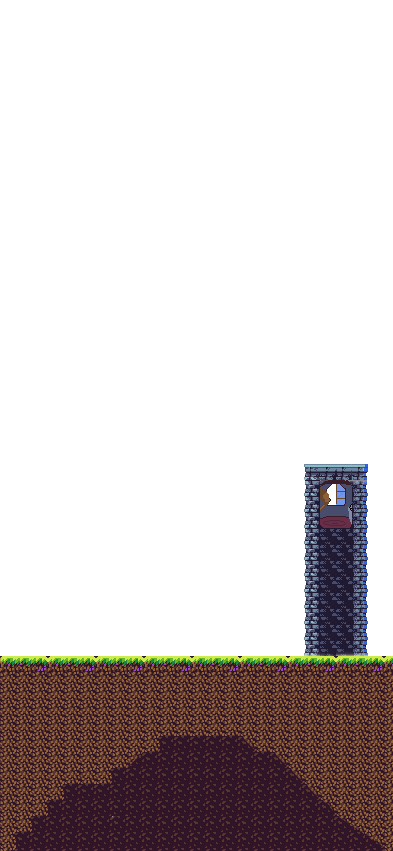
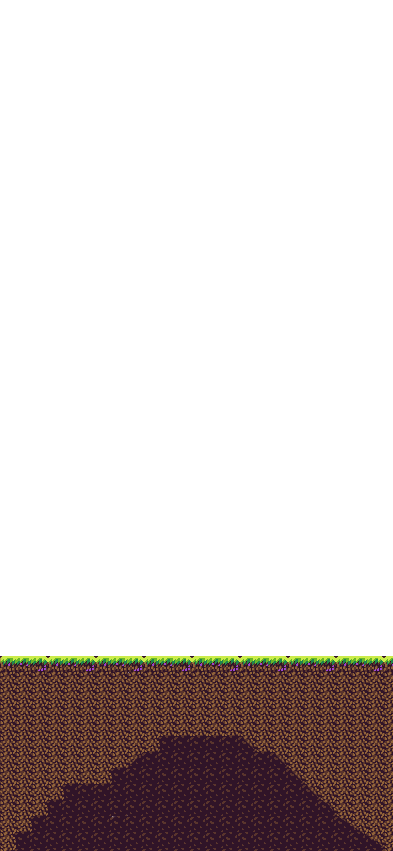
폭팔 크기와 슬라임 생성

Changed region(s): [[0.7634, 0.5194, 0.9466, 0.7944]]

diff --git a/src/bevygame/slime.rs b/src/bevygame/slime.rs
@@ -1,0 +1,105 @@
+use bevy::prelude::*;
+use rand::Rng;
+
+use super::setup_res::{Slime, Tower, ResourceImage, Stuff};
+
+fn slime_move(
+    mut commands: Commands,
+    mut query_slime: Query<(&mut Transform, &mut Slime, Entity)>,
+    mut query_tower: Query<&mut Tower>,
+    res_time: Res<Time>
+){
+    let delta = res_time.delta();
+    let mut tower = query_tower.get_single_mut().unwrap();
+    for (mut slime_trans, mut slime, entity) in query_slime.iter_mut(){
+        slime.move_time.tick(delta);
+        if slime.move_time.finished(){
+            let mut rng = rand::thread_rng();
+            slime_trans.translation += Vec3::X * rng.gen_range(slime.move_min..slime.move_max);
+
+            if slime_trans.translation.x > 100.{
+                println!("슬라임 충돌!");
+                tower.2 += 2;
+                commands.entity(entity).despawn();
+            }
+        }
+    }
+}
+
+fn slime_manger(
+    mut commands: Commands,
+    mut query_text: Query<&mut Text>,
+    res_image: Res<ResourceImage>,
+    mut level_time: Local<f32>,
+    mut level: Local<i32>,
+    res_time: Res<Time>
+){
+    let delta_sec = res_time.delta_seconds();
+    *level_time += delta_sec;
+
+    if *level_time > 2. {
+        *level_time = 0.;
+        *level += 1;
+        
+        let range = 1..(*level+1).max(3);
+        println!("이건 count 범위입니다. {:?}", range);
+        let mut rng = rand::thread_rng();
+        let count = rng.gen_range(range);
+
+        let mut text = query_text.get_single_mut().unwrap();
+        text.sections[0].value = format!("Score: {}", *level);
+
+        for _ in 0..count{
+            let mut slime = res_image.slime.clone();
+            let stuff_index = rng.gen_range(0..4);
+            let stuff = match stuff_index{
+                0 => {
+                    slime.0.sprite.color = Color::RED;
+                    Stuff::Fire
+                },
+                1 => {
+                    slime.0.sprite.color = Color::BLUE;
+                    Stuff::Water
+                },
+                2 => {
+                    slime.0.sprite.color = Color::YELLOW;
+                    Stuff::Light
+                },
+                3 => {
+                    slime.0.sprite.color = Color::GREEN;
+                    Stuff::Poison
+                },
+                _ => {Stuff::Fire}
+            };
+
+            let lv = (*level as f32).max(3.);
+            let min = (-5.)..(-2.5);
+            let max = (5.)..(10.);
+            let time = (0.7 / lv)..(1.5 / lv);
+            println!("이건 min 범위입니다. {:?}", min);
+            println!("이건 max 범위입니다. {:?}", max);
+            commands.spawn(
+                    slime
+            ).insert(
+                Slime{
+                    move_max: rng.gen_range(max),
+                    move_min: rng.gen_range(min),
+                    move_time: Timer::from_seconds(rng.gen_range(time), TimerMode::Repeating),
+                    property: stuff
+                }
+            );
+        }
+    }
+}
+
+pub struct SlimePlugin;
+
+impl Plugin for SlimePlugin {
+    fn build(&self, app: &mut App) {
+        app.
+        add_systems(Update, (
+            slime_move,
+            slime_manger,
+        ));
+    }
+}

diff --git a/src/bevygame/setup_res.rs b/src/bevygame/setup_res.rs
@@ -37,6 +37,9 @@ pub struct Slime {
 pub struct Witch;
 
 #[derive(Component)]
+pub struct Tower(pub i32, pub Timer, pub i32);
+
+#[derive(Component)]
 pub struct TowerPosion;
 
 #[derive(Component)]
@@ -72,10 +75,10 @@ impl Clone for AnimationTimer {
 }
 #[derive(Resource)]
 pub struct ResourceImage {
-    pub bg1: Handle<Image>,
-    pub bg2: Handle<Image>,
-    pub bg3: Handle<Image>,
-    pub front: Handle<Image>,
+    // pub bg1: Handle<Image>,
+    // pub bg2: Handle<Image>,
+    // pub bg3: Handle<Image>,
+    // pub front: Handle<Image>,
     pub bird: (SpriteSheetBundle, AnimationIndices, AnimationTimer),
     pub slime: (SpriteSheetBundle, AnimationIndices, AnimationTimer),
     pub slime_death: (SpriteSheetBundle, AnimationIndices, AnimationTimer),
@@ -199,6 +202,7 @@ pub fn setup(
     let slime_pice = asset_server.load("SlimePice.png");
     let boom_img = asset_server.load("Boom.png");
     let posion = asset_server.load("Posion.png");
+    let tower_img = asset_server.load("Map/Tower.png");
 
     let explosion_sound: Handle<AudioSource> = asset_server.load("Audio/Explosion.wav");
     let music_sound: Handle<AudioSource>  = asset_server.load("Audio/LOOP.mp3");
@@ -357,16 +361,25 @@ pub fn setup(
         transform: Transform::from_xyz(0., 0., 24.),
         ..default()
     });
+    commands.spawn(SpriteBundle{
+        texture: tower_img.clone(),
+        sprite: Sprite {
+            custom_size: Some(Vec2::new(393., 851.)),
+            ..default()
+        },
+        transform: Transform::from_xyz(0., 0., 24.),
+        ..default()
+    }).insert(Tower(10,Timer::from_seconds(0.15, TimerMode::Repeating), 0));
     commands.spawn(bird.clone()).insert(Bird {
         poops: VecDeque::with_capacity(3),
         turn: 1.,
     });
-    commands.spawn(slime.clone()).insert(Slime {
-        property: Stuff::Fire,
-        move_max: 3.,
-        move_min: -1.,
-        move_time: Timer::from_seconds(0.8, TimerMode::Repeating),
-    });
+    // commands.spawn(slime.clone()).insert(Slime {
+    //     property: Stuff::Fire,
+    //     move_max: 3.,
+    //     move_min: -1.,
+    //     move_time: Timer::from_seconds(0.8, TimerMode::Repeating),
+    // });
     commands.spawn(
         (
             SpriteBundle{
@@ -400,10 +413,10 @@ pub fn setup(
     });
     commands.spawn(witch.clone()).insert(Witch);
     commands.insert_resource(ResourceImage {
-        bg1,
-        bg2,
-        bg3,
-        front,
+        // bg1,
+        // bg2,
+        // bg3,
+        // front,
         bird,
         rollat,
         handle,
@@ -446,7 +459,17 @@ pub fn setup(
         stronger: 0,
         stuff: None,
         rollat_timer: Timer::from_seconds(0.05, TimerMode::Repeating)
-    })
+    });
+
+    commands.spawn(
+        TextBundle{
+            text: Text::from_section(
+               format!("Score: 0") , 
+               TextStyle {color:Color::BLACK , font_size: 16., ..default()}
+            ),
+            ..Default::default()
+        }
+    );
 }
 
 fn animation_forward(

diff --git a/src/bevygame/bird.rs b/src/bevygame/bird.rs
@@ -136,12 +136,13 @@ fn poop_throw(
         trans.translation += Vec3::NEG_Y * poop.1 * delta_sec;
         poop.1 += more_speed;
         let poop_pos = trans.translation;
-        if poop_pos.y < -213.5 {
+        if poop_pos.y < -229.5 {
+            let stronger = (poop.0.stronger as f32 * 32.).max(16.);
             event_writer.send(
                 EventExplore{
                     stuff: poop.0.property.clone(),
-                    pos: poop_pos,
-                    stronger: poop.0.stronger as f32 * 16.
+                    pos: poop_pos + Vec3::Y * stronger / 2.,
+                    stronger: stronger
                 }
             );
             commands.entity(poop_entity).despawn();
@@ -174,10 +175,11 @@ fn poop_throw(
                         pice.0.transform.translation = slime_pos;
                         commands.spawn(
                           pice
-                        ).insert(Exploer(rng.gen_range((16.)..=64.),rng.gen_range((16.)..=64.)));
+                        ).insert(Exploer(rng.gen_range((-64.)..=64.),rng.gen_range((16.)..=64.)));
                     }
                     commands.entity(entity).despawn();
                     commands.entity(poop_entity).despawn();
+                    break;
                 }
             }
         }
@@ -195,6 +197,7 @@ fn poop_explore(
     for ev in event_reader_explore.read(){
         let mut boom = res_poop.boom.clone();
         boom.0.transform.translation = ev.pos;
+        boom.0.sprite.custom_size = Some(Vec2::splat(ev.stronger));
         commands.spawn(
             boom
         ).insert(Die);

diff --git a/src/bevygame/mod.rs b/src/bevygame/mod.rs
@@ -1,15 +1,14 @@
 use crate::bevygame::bird::BirdPlugin;
-use bevy::{
-    prelude::*
-};
+use bevy::prelude::*;
 use crate::bevygame::witch::WitchPlugin;
 //use bevy_shader_utils::ShaderUtilsPlugin;
 
-use self::setup_res::ResourceSetupPlugin;
+use self::{setup_res::ResourceSetupPlugin, slime::SlimePlugin};
 
 mod witch;
 mod bird;
 mod setup_res;
+mod slime;
 
 pub fn run() {
     App::new()
@@ -31,7 +30,8 @@ pub fn run() {
             //ShaderUtilsPlugin,
             ResourceSetupPlugin,
             BirdPlugin,
-            WitchPlugin
+            WitchPlugin,
+            SlimePlugin
         ))
         .run();
 }
